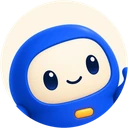
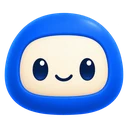
Use the idea, guide, rest, code and head poses
Head replaces the cropped avatar and is the source of the app icons.
Guide leads the first-run preview and Roadmap, rest is for paused and
nothing-due, idea is on Evidence, and a small code pose sits beside each
question in the player.

Claude-Session: https://claude.ai/code/session_01KA8YQdj7KFXT4ucFRxHskG

diff --git a/app/resources/js/components/Mascot.tsx b/app/resources/js/components/Mascot.tsx
@@ -9,26 +9,39 @@ import think360 from '../../mascot/step-think-360.webp';
 import think720 from '../../mascot/step-think-720.webp';
 import focus360 from '../../mascot/step-focus-360.webp';
 import focus720 from '../../mascot/step-focus-720.webp';
+import idea360 from '../../mascot/step-idea-360.webp';
+import idea720 from '../../mascot/step-idea-720.webp';
+import guide360 from '../../mascot/step-guide-360.webp';
+import guide720 from '../../mascot/step-guide-720.webp';
+import rest360 from '../../mascot/step-rest-360.webp';
+import rest720 from '../../mascot/step-rest-720.webp';
+import code360 from '../../mascot/step-code-360.webp';
+import code720 from '../../mascot/step-code-720.webp';
 import { prefersStill, useMascotMode } from '../lib/mascotPrefs';
 import { MASCOT_NAME } from '../lib/stepSays';
 
-// Step, the DevStep companion (docs/15). Four supplied poses (wave, cheer, think, focus) plus motion. A fifth pose,
-// sad, is kept as source only: the PRD (§6) rules out a companion that shows sadness, so no state maps to it.
+// Step, the DevStep companion (docs/15). Supplied poses (wave, cheer, think, focus, idea, guide, rest, code) plus
+// motion. A sad pose is kept as source only: the PRD (§6) rules out a companion that shows sadness, so no state maps
+// to it.
 // Decorative by default: anything Step "says" is real text next to it, so nothing depends on seeing the image.
 // Motion stops for reduced-motion, "quiet" and "off".
 
-export type Mood = 'wave' | 'hello' | 'cheer' | 'think' | 'focus' | 'rest';
+export type Mood = 'wave' | 'hello' | 'cheer' | 'think' | 'focus' | 'idea' | 'guide' | 'rest' | 'code';
 
-type Pose = 'wave' | 'cheer' | 'think' | 'focus';
+type Pose = 'wave' | 'cheer' | 'think' | 'focus' | 'idea' | 'guide' | 'rest' | 'code';
 
 const POSES: Record<Pose, { small: string; large: string }> = {
     wave: { small: wave360, large: wave720 },
     cheer: { small: cheer360, large: cheer720 },
     think: { small: think360, large: think720 },
     focus: { small: focus360, large: focus720 },
+    idea: { small: idea360, large: idea720 },
+    guide: { small: guide360, large: guide720 },
+    rest: { small: rest360, large: rest720 },
+    code: { small: code360, large: code720 },
 };
 
-const POSE_FOR: Record<Mood, Pose> = { wave: 'wave', hello: 'wave', rest: 'wave', cheer: 'cheer', think: 'think', focus: 'focus' };
+const POSE_FOR: Record<Mood, Pose> = { wave: 'wave', hello: 'wave', rest: 'rest', cheer: 'cheer', think: 'think', focus: 'focus', idea: 'idea', guide: 'guide', code: 'code' };
 
 interface MascotProps {
     mood?: Mood;

diff --git a/app/resources/css/app.css b/app/resources/css/app.css
@@ -143,7 +143,7 @@ legend { font-weight: 800; padding: 0; margin-bottom: 10px; font-size: 1.1rem; }
 /* ---------- Step (mascot) ---------- */
 .mascot { position: relative; display: inline-block; width: var(--size); height: var(--size); flex: none; transform-origin: 50% 92%; }
 .mascot img { display: block; width: 100%; height: 100%; object-fit: contain; user-select: none; -webkit-user-drag: none; filter: drop-shadow(0 10px 8px rgba(11, 30, 90, 0.22)); }
-.avatar { border-radius: 50%; background: var(--cream); border: 2px solid var(--border); object-fit: cover; flex: none; }
+.avatar { object-fit: contain; flex: none; filter: drop-shadow(0 2px 3px rgba(11, 30, 90, 0.25)); }
 .say { display: flex; align-items: center; gap: 12px; }
 .say.stack-layout { flex-direction: column; text-align: center; }
 .say.no-mascot .bubble::before { display: none; }
@@ -165,6 +165,8 @@ legend { font-weight: 800; padding: 0; margin-bottom: 10px; font-size: 1.1rem; }
     .mascot:not(.still).mood-cheer { animation: hop 900ms var(--ease) 2, sway 2.8s 1.8s ease-in-out infinite alternate; }
     .mascot:not(.still).mood-think { animation: ponder 3.4s ease-in-out infinite alternate; }
     .mascot:not(.still).mood-rest { animation: breathe 4.5s ease-in-out infinite; }
+    .mascot:not(.still).mood-guide, .mascot:not(.still).mood-idea { animation: sway 2.8s ease-in-out infinite alternate; }
+    .mascot:not(.still).mood-code { animation: breathe 4.5s ease-in-out infinite; }
     .mascot:not(.still).mood-focus { animation: ready 2.6s ease-in-out infinite; }
     .mascot:not(.still)     .mascot:not(.still)     .confetti i { animation: burst 1.4s var(--ease) forwards; animation-delay: calc(var(--i) * 30ms); } /* forwards, not both: during the delay the base opacity 0 applies, so nothing sits on Step's face */
 }
@@ -271,3 +273,5 @@ dialog::backdrop { background: rgba(8, 12, 30, 0.55); }
 .say-mini .avatar { width: 40px; height: 40px; }
 .weekcard { display: grid; gap: 10px; }
 .weekcard .caption { margin: 0; color: var(--text-2); font-weight: 700; font-size: 0.95rem; }
+.q-head { display: flex; align-items: center; justify-content: space-between; gap: 12px; }
+.q-head h2 { margin: 0; }

diff --git a/app/resources/js/pages/Lists.tsx b/app/resources/js/pages/Lists.tsx
@@ -66,7 +66,7 @@ export function RoadmapPage() {
     return (
         <div className="stack">
             <h1 ref={h} tabIndex={-1}>Roadmap</h1>
-            <Say mood={paused ? 'rest' : 'think'} size={100}>{say(paused ? 'paused_roadmap' : 'roadmap')}</Say>
+            <Say mood={paused ? 'rest' : 'guide'} size={100}>{say(paused ? 'paused_roadmap' : 'roadmap')}</Say>
             <div className="card path-head">
                 <h2>{view.roadmap.title}</h2>
                 <p className="muted small">Version {view.roadmap.version} · {view.roadmap.estimated_effort}</p>
@@ -153,7 +153,7 @@ export function EvidencePage() {
     return (
         <div className="stack">
             <h1 ref={h} tabIndex={-1}>Evidence</h1>
-            {items.length > 0 && <Say mood="wave" size={90}>{say('evidence')}</Say>}
+            {items.length > 0 && <Say mood="idea" size={96}>{say('evidence')}</Say>}
             <p className="muted">What you can show, with dates and limits. It is separate from roadmap completion, and levels never go down.</p>
             {items.length === 0 && (
                 <div className="empty card">

diff --git a/app/resources/js/components/Player.tsx b/app/resources/js/components/Player.tsx
@@ -4,7 +4,7 @@ import { helpUsed, OUTCOME_LABEL } from '../lib/format';
 import { Markdown } from '../lib/markdown';
 import type { AttemptResult, Item } from '../types';
 import { type Answer, answerReady, effectiveAnswer, ItemInput } from './ItemInput';
-import { Avatar, Remark } from './Mascot';
+import { Avatar, Mascot, Remark } from './Mascot';
 import { StepBar } from './Progress';
 import { say } from '../lib/stepSays';
 import { Banner, Dialog, useFocusOnChange } from './ui';
@@ -161,7 +161,7 @@ export function Player({ steps, startIndex, title, context, modeLabel, engine, i
             {step.kind === 'response' && step.item && (
                 <div className="stack" style={{ marginTop: 16 }}>
                     {step.item.scenario && <Markdown source={step.item.scenario} />}
-                    <h2>Question</h2>
+                    <div className="q-head"><h2>Question</h2><Mascot mood="code" size={72} /></div>
                     <Markdown source={step.item.prompt} />
                     <ItemInput item={step.item} value={answer} onChange={setAnswer} disabled={!!result} />
 

diff --git a/app/resources/js/pages/Today.tsx b/app/resources/js/pages/Today.tsx
@@ -14,13 +14,13 @@ import type { Action, Mode, Today as TodayData } from '../types';
 interface RoadmapPreview { title: string; outcome: string; estimated_effort: string; required_topic_count: number; coverage_note: string }
 
 const GREETING: Record<TodayType['situation'], { mood: Mood; context: Context }> = {
-    first_run: { mood: 'hello', context: 'today_first' },
+    first_run: { mood: 'guide', context: 'today_first' },
     ready: { mood: 'focus', context: 'today_ready' },
     resume: { mood: 'focus', context: 'today_resume' },
     returning: { mood: 'hello', context: 'today_returning' },
     done_for_today: { mood: 'cheer', context: 'today_done' },
     paused: { mood: 'rest', context: 'today_paused' },
-    nothing_ready: { mood: 'think', context: 'today_nothing' },
+    nothing_ready: { mood: 'rest', context: 'today_nothing' },
     roadmap_complete: { mood: 'cheer', context: 'complete_roadmap' },
 };
 

diff --git a/docs/15-mascot-and-brand.md b/docs/15-mascot-and-brand.md
@@ -9,7 +9,7 @@ Status: Proposal — built; for discussion (decision recorded in `13` §3a)
 - **Decision (founder, recorded):** build a mascot, **Step**, and use it throughout the product. This brings forward the P1 "optional companion" (F15), which `12` §4.2 had locked until pilot evidence. **Open question 1** keeps the name as a working name. **Decision**
 - **Step is a guide with no state.** It has no mood that depends on the learner, no health, no items, no counters, and no memory of absence. It cannot be neglected, so it cannot be sad. That makes the PRD §6 rules true by construction. **Proposal, built**
 - **The polish comes from craft, not pressure.** Rounded type, a palette taken from the artwork, chunky pressable buttons, a path-style roadmap, a weekly practice row, and a celebration at stopping points. The Duolingo mechanics that rely on guilt (streak loss, "we miss you", hearts, leaderboards) are explicitly rejected (§6). **Proposal, built**
-- **Supplied poses plus motion.** Four of the five supplied renders are used as they are: wave, cheer, think and focus (the determined one). Moods map onto them: wave, hello and rest use *wave*; cheer uses *cheer* with confetti; think uses *think*; focus uses *focus*. Motion (sway, pop, hop, a small "ready" nudge) sits on top of the pose. Nothing is redrawn, so Step stays recognisable. **The fifth pose, sad, is kept as source only (`resources/mascot/source/step-sad.png`) and is not wired to any state**: the PRD §6 rules out a companion that shows sadness, and a sad face on an error or after an absence is exactly that. **Proposal, built**
+- **Supplied poses plus motion.** Nine supplied renders are used as they are: wave, cheer, think, focus (determined), idea (lightbulb), guide (map), rest (relaxed, eyes closed), code (laptop) and the head. Moods map onto them: wave and hello use *wave* (hello adds a pop-in); cheer uses *cheer* with confetti; focus is for something ready to start; idea is on Evidence; guide is for the first-run roadmap preview and the Roadmap page; rest is for a paused roadmap, a paused Today and nothing due; code sits beside each question in the player; think is for onboarding and the offline screen. The head is the avatar in the header, hints and remarks, and the source of the app icons. Motion (sway, pop, hop, a small "ready" nudge, breathing) sits on top of the pose. Nothing is redrawn, so Step stays recognisable. **A sad pose is kept as source only (`resources/mascot/source/step-sad.webp`) and is not wired to any state**: the PRD §6 rules out a companion that shows sadness, and a sad face on an error or after an absence is exactly that. A trophy pose was supplied in chat but never reached disk, so it is not in the repo yet; it is intended only for a completed roadmap and a passed challenge-out. **Proposal, built**
 - **The learner is in control.** Settings offers Step with a little movement, perfectly still, or hidden. The OS reduced-motion setting always wins. What Step says is real text beside the figure, so nothing depends on seeing it. **PRD §2, §10; built and tested**
 - **Step's words are enforced by a test.** Every line is scanned for guilt, fear, comparison, missed-day counts, mastery claims, exclamation marks and emoji. **Proposal, built**
 - **Light:** the mascot images total about 27 KB on the first screen; icons and the favicon use Step's portrait. **Built**
@@ -81,7 +81,7 @@ This extends the rule table in `08` §11.
 
 | Never | Because |
 | --- | --- |
-| Look sad, sleepy-as-punishment, hungry, lonely or hurt; show absence | PRD §6. Step's "rest" mood (calm breathing, the wave pose) is only used for a paused roadmap, and "think" for offline or nothing being due; both are calm, not sad. The supplied sad pose is not used anywhere. |
+| Look sad, sleepy-as-punishment, hungry, lonely or hurt; show absence | PRD §6. Step's "rest" mood (calm breathing, the relaxed pose) is only used for a paused roadmap, and "think" for offline or nothing being due; both are calm, not sad. The supplied sad pose is not used anywhere. |
 | Streaks, streak freezes, "lose your streak", counters of missed days | PRD §6; `12` §9 "Never". The weekly row is dots for days practised: a missed day is an empty circle and nothing breaks. |
 | Hearts, lives, energy or anything that blocks learning | Breaks "no mandatory browsing" and autonomy (PRD §6, F02). |
 | "We miss you", guilt notifications, or any message of its own | Reminders are opt-in, one per day, and plain (PRD §6, F10). |
@@ -106,7 +106,7 @@ This extends the rule table in `08` §11.
 
 | Item | Detail |
 | --- | --- |
-| Source | `app/resources/mascot/source/`: the supplied renders, already transparent cutouts (wave, cheer, think, focus, and sad, which is unused). The app serves `step-<pose>-360.webp` and `-720.webp`, about 20 and 45 KB each; only the pose on screen is fetched. |
+| Source | `app/resources/mascot/source/`: the supplied renders, already transparent cutouts (wave, cheer, think, focus, and sad, which is unused). The app serves `step-<pose>-360.webp` and `-720.webp`, about 20 and 45 KB each, and `step-head-{128,256}.webp`; only the pose on screen is fetched. |
 | Delivered | Two sizes of the full figure (360 and 720 px WebP, chosen by `srcset`), and a circular head portrait (128 and 256 px WebP) for avatars. Files are imported through the build, so they are fingerprinted and safe to cache indefinitely (the host decides the cache lifetime). |
 | Icons | `npm run icons` renders the app, maskable and apple-touch icons from the portrait on the brand cream. The maskable icon keeps Step inside the safe zone. |
 | Poses | There is one pose. Moods are motion and props. This is the main limit of the current approach (Open question 3). |
